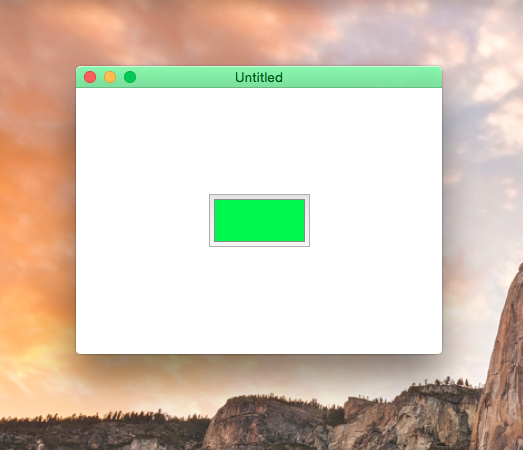
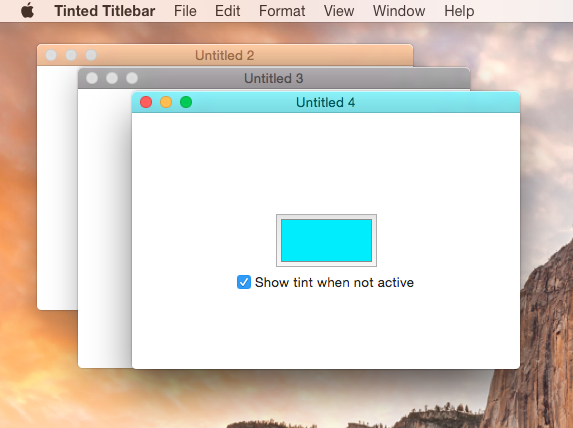
New setting to keep the tint when the window is not active, updated screenshots

diff --git a/TTWindow/TTWindow.m b/TTWindow/TTWindow.m
@@ -13,6 +13,7 @@
 
 @interface TTWindow ()
 
+@property (nonatomic, readonly) NSVisualEffectView *applesTitlebarView;
 @property (nonatomic, strong) TTColorView *tintView;
 
 @end
@@ -25,8 +26,9 @@
     
     if (!self) return nil;
     
-    // start with the default tint color
+    // start with the default tint color and effect state
     self.titlebarTintColor = kTTWindowDefaultTitlebarTintColor;
+    self.titlebarEffectState = NSVisualEffectStateFollowsWindowActiveState;
     
     [self setupTitlebarTint];
     
@@ -57,6 +59,21 @@
     }
 }
 
+- (NSVisualEffectView *)applesTitlebarView
+{
+    for (NSView *view in [[self.contentView superview] subviews]) {
+        if ([view isKindOfClass:NSClassFromString(@"NSTitlebarContainerView")]) {
+            for (id titlebarView in view.subviews) {
+                if ([titlebarView isKindOfClass:NSClassFromString(@"NSTitlebarView")]) {
+                    return titlebarView;
+                }
+            }
+        }
+    }
+    
+    return nil;
+}
+
 - (void)setTitlebarTintColor:(NSColor *)titlebarTintColor
 {
     if (titlebarTintColor == _titlebarTintColor) return;
@@ -64,6 +81,13 @@
     _titlebarTintColor = titlebarTintColor;
     
     self.tintView.backgroundColor = _titlebarTintColor;
+}
+
+- (void)setTitlebarEffectState:(NSVisualEffectState)titlebarEffectState
+{
+    _titlebarEffectState = titlebarEffectState;
+    
+    self.applesTitlebarView.state = _titlebarEffectState;
 }
 
 @end

diff --git a/Tinted Titlebar/Document.m b/Tinted Titlebar/Document.m
@@ -11,15 +11,28 @@
 
 @interface Document ()
 
+@property (readonly) TTWindow *specialWindow;
 @property (weak) IBOutlet NSColorWell *colorWell;
 
 @end
 
 @implementation Document
 
+- (TTWindow *)specialWindow
+{
+    return (TTWindow *)self.windowForSheet;
+}
+
 - (IBAction)colorWellAction:(id)sender {
-    TTWindow *tintedTitlebarWindow = (TTWindow *)self.windowForSheet;
-    tintedTitlebarWindow.titlebarTintColor = self.colorWell.color;
+    self.specialWindow.titlebarTintColor = self.colorWell.color;
+}
+
+- (IBAction)checkboxAction:(id)sender {
+    if ([sender state] == NSOnState) {
+        self.specialWindow.titlebarEffectState = NSVisualEffectStateActive;
+    } else {
+        self.specialWindow.titlebarEffectState = NSVisualEffectStateFollowsWindowActiveState;
+    }
 }
 
 - (void)windowControllerDidLoadNib:(NSWindowController *)aController {

diff --git a/TTWindow/TTWindow.h b/TTWindow/TTWindow.h
@@ -10,6 +10,20 @@
 
 @interface TTWindow : NSWindow
 
+/*!
+ @property titlebarTintColor
+ @abstract
+ The titlebar tint color
+ */
 @property (nonatomic, assign) NSColor *titlebarTintColor;
+
+/*!
+ @property titlebarEffectState
+ @abstract
+ NSVisualEffectStateActive - The tint always shows through the titlebar
+ NSVisualEffectStateInactive - The tint never shows through the titlebar
+ NSVisualEffectStateFollowsWindowActiveState - The tint shows thorugh the titlebar when the window is active
+ */
+@property (nonatomic, assign) NSVisualEffectState titlebarEffectState;
 
 @end

diff --git a/README.md b/README.md
@@ -6,7 +6,4 @@ A ```NSWindow``` subclass that allows you to set a custom tint color for the tit
 
 ![Screenshot 2](https://raw.github.com/insidegui/TTWindow/master/TTWindow2.png)
 
-## Gotchas
-
-- Yosemite only
-- The tint color only shows when the window is the key window
+**Important: Only works on OS X 10.10 and up**
